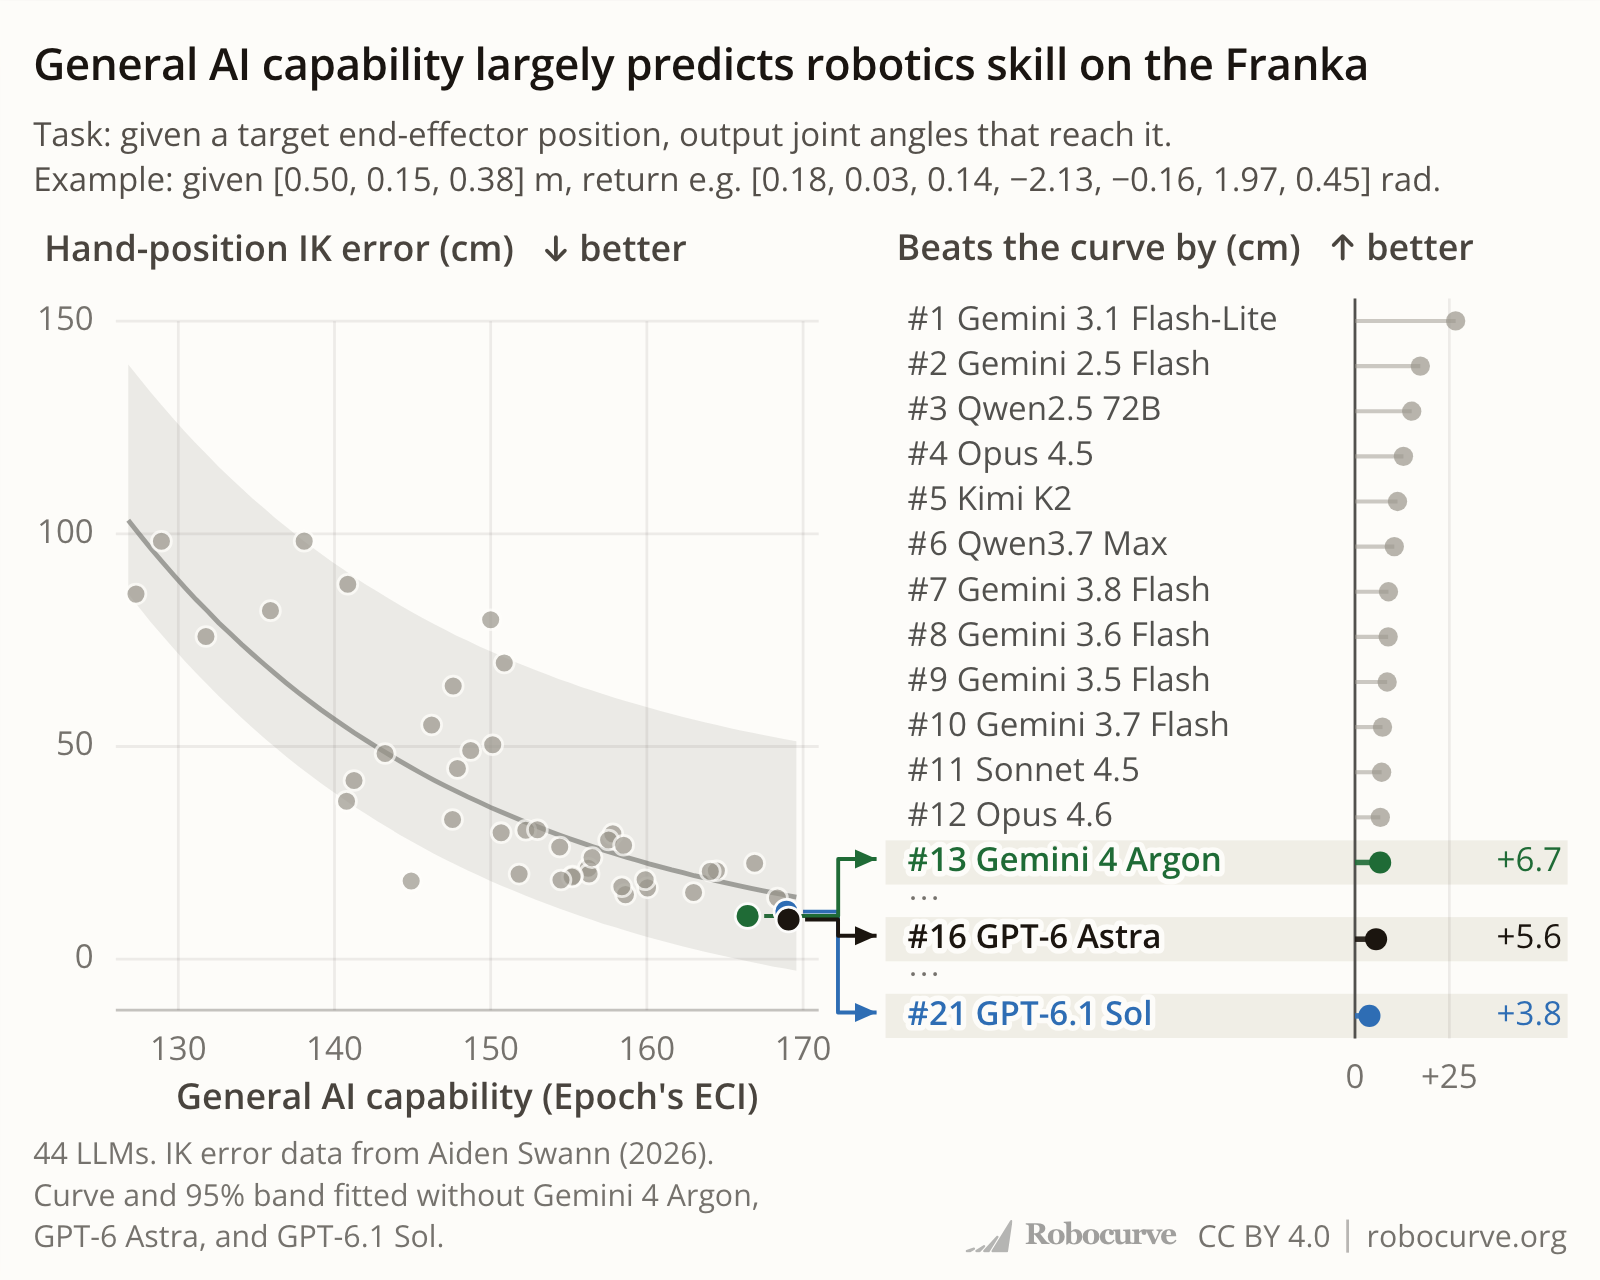
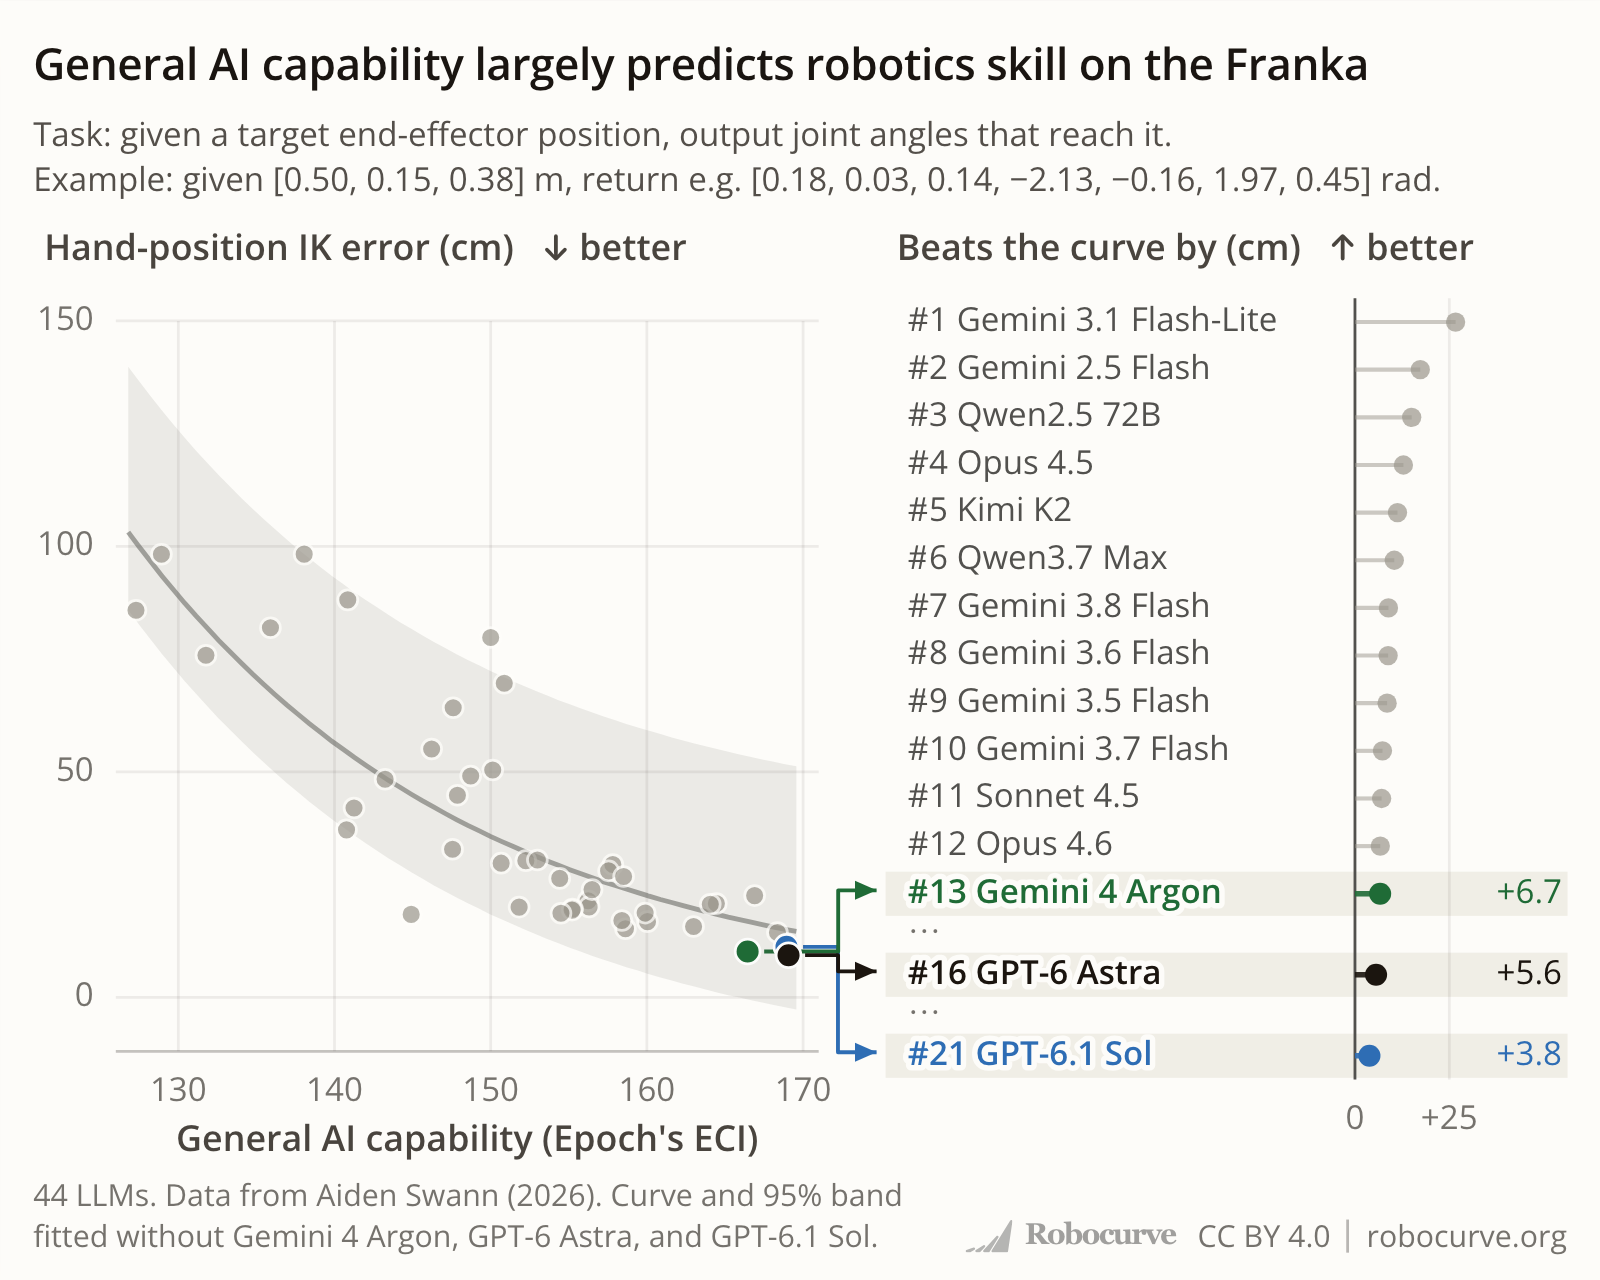
Nov-09: two-line caption

diff --git a/tweets/2026/November/Nov-09/site/src/KinematicsCards.jsx b/tweets/2026/November/Nov-09/site/src/KinematicsCards.jsx
@@ -379,7 +379,7 @@ const KW_X = ['Beats the curve by (cm)', 'Beats the curve by (points)', 'Beats t
 const MOBILE_Y = ['Hand-position error (cm)', 'MCQs answered correctly (%)', 'IK error (cm)', 'Distance from real Panda (cm)'];
 function PairChart({ i, metric, topN = 0, mobile = false, wideLeft = false }) {
   const boxRef = useRef(null);
-  const cap = mobile ? <>44 LLMs. {['FK error', 'MCQ', 'IK error', 'Edited-arm'][i]} data from Aiden Swann (2026).{wideLeft ? <><br />Curve and 95% band fitted without Gemini 4 Argon,<br />GPT-6 Astra, and GPT-6.1 Sol.</> : <><br />Curve and 95% band exclude Argon, Astra, and <span style={{ whiteSpace: 'nowrap' }}>GPT-6.1 Sol</span>.</>}</> : PAIR_CAP(metric, topN, i === 1 ? 'points' : 'cm');
+  const cap = mobile ? wideLeft ? <>44 LLMs. Data from Aiden Swann (2026). Curve and 95% band<br />fitted without Gemini 4 Argon, GPT-6 Astra, and GPT-6.1 Sol.</> : <>44 LLMs. {['FK error', 'MCQ', 'IK error', 'Edited-arm'][i]} data from Aiden Swann (2026).{<><br />Curve and 95% band exclude Argon, Astra, and <span style={{ whiteSpace: 'nowrap' }}>GPT-6.1 Sol</span>.</>}</> : PAIR_CAP(metric, topN, i === 1 ? 'points' : 'cm');
   // wideLeft (5:4): caption sits under the scatter so the ranking runs down to the footer (user 2026-11-09).
   return (
     <figure className="rc-chart" style={{ flex: 1, minHeight: 0, display: 'flex', flexDirection: 'column' }}>

diff --git a/tweets/2026/November/Nov-09/site/entry.jsx b/tweets/2026/November/Nov-09/site/entry.jsx
@@ -1,6 +1,6 @@
 /* Mounts the four 5:4 Franka Panda cards (KIN_WIDE54_PANELS, ids kw-*) exactly as the website's unlisted /draft/
    page framed them: 580x464 CSS each, shot at 1600/580 DPR by shot.mjs. The CSS below is copied from src/DraftPage.jsx of
-   robocurve/website (commit d4cb296, branch kinematics-draft); the attribution sits inside each card, beside the caption. */
+   robocurve/website (commit 73ef5df, branch kinematics-draft); the attribution sits inside each card, beside the caption. */
 import { createRoot } from 'react-dom/client';
 import { Panel } from './src/Trends.jsx';
 import { KIN_WIDE54_PANELS } from './src/KinematicsCards.jsx';

diff --git a/tweets/2026/November/Nov-09/README.md b/tweets/2026/November/Nov-09/README.md
@@ -39,7 +39,7 @@ Run `./regenerate.sh` to rebuild all four PNGs (1600x1280). It needs Python 3 wi
 
 ## How the images are made
 
-`site/` is a trimmed copy of the `robocurve/website` repo at commit `d4cb296` (branch `kinematics-draft`,
+`site/` is a trimmed copy of the `robocurve/website` repo at commit `73ef5df` (branch `kinematics-draft`,
 2026-11-09). `package.json`, `package-lock.json`, `tokens/fonts-local.css` and the self-hosted Open Sans and Space
 Grotesk fonts are reused from `tweets/2026/October/Oct-19/site`; `build.mjs` and `shot.mjs` are adapted from it (card
 ids, output names, page title). Code comments in the copied files refer to their source repos (for example, the
@@ -58,5 +58,5 @@ website repo being private, or paths in Robocurve's internal social repo); they 
 ## Verification (2026-11-09)
 
 The regenerated PNGs are 1600x1280, the same as `original/`. Every point, label, arrow and line sits in the same
-place. Against the originals, the mean absolute pixel difference is 1.6 to 2.6 on the 0-255 scale, and 0.5 to 1.3%
+place. Against the originals, the mean absolute pixel difference is 1.6 to 2.4 on the 0-255 scale, and 0.5 to 1.3%
 of pixels differ by more than 64 levels, all at glyph edges (text rasterisation differs between machines).
